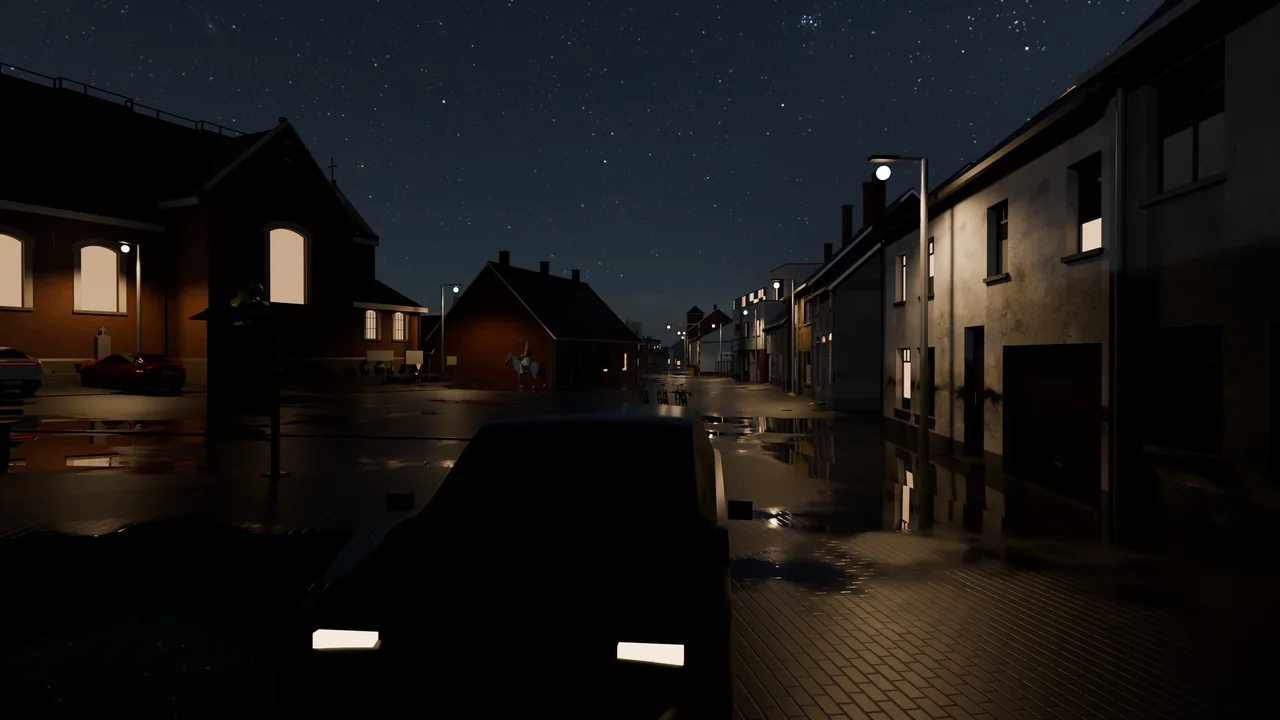
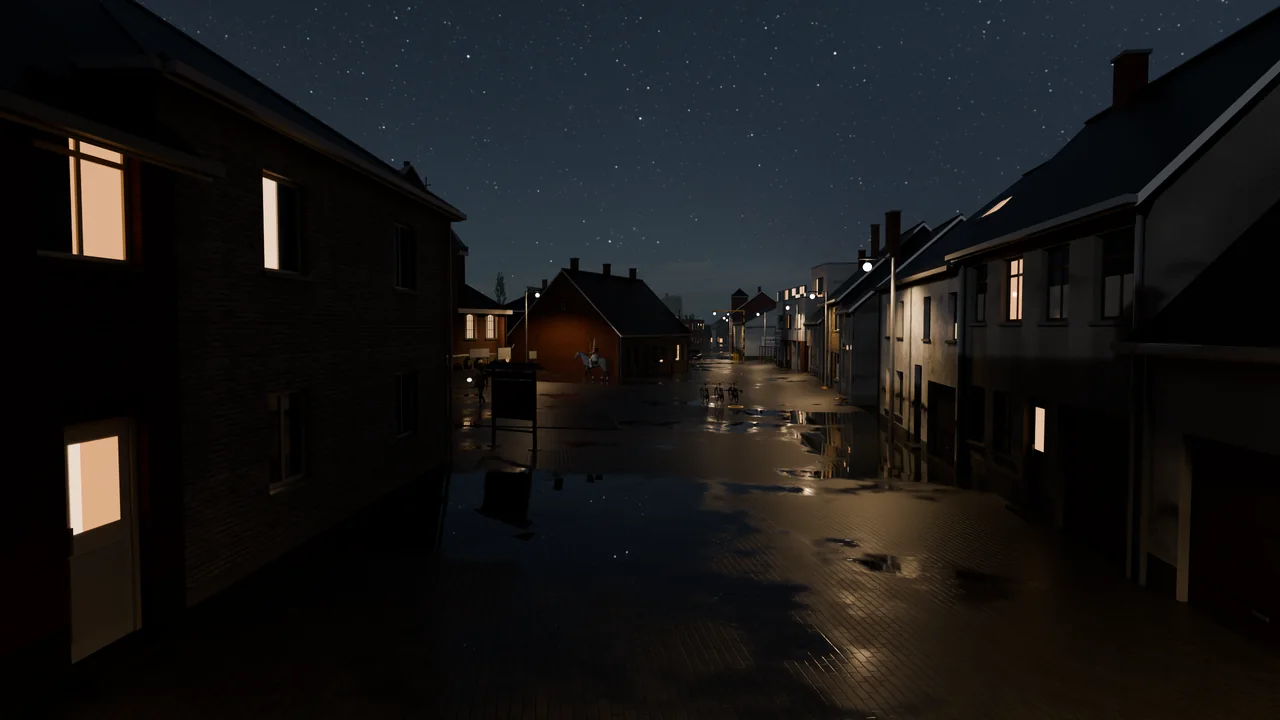
Start screen: the wet night street without a car in front, and the Sparrenhof at dusk seen from the road
The merger's review: in street-night a passing car filled the bottom of the picture, and in
sparrenhof-dusk the top half was dark crowns and the café hard to make out.

street-night: the camera moves a few metres back and up the street; the wet paving, the puddles
mirroring the lamps and the lit windows stay, the street's end right of the middle. A new view
extra, `render.clear` (export_scene.js), leaves out anything car-sized within that many metres of
the camera, as the traffic drove into this spot in two exports.

sparrenhof-dusk: the camera stands on the road looking in at the lit café, its steel stairs and
roof platform and a tree hut with a lantern, the trees framing the left side only, in an earlier
dusk (a brighter sky for fill). The subject sits right of the start panel.

Made with export_view.mjs, render_still.py at 2560 wide and 256 samples, and encode_still.py, as
before. The decisions row describes the new framing.

Claude-Session: https://claude.ai/code/session_01SZHxLo9gvS2EbfpbHaJ3PJ

diff --git a/tools/still/export_scene.js b/tools/still/export_scene.js
@@ -216,6 +216,24 @@
       m.needsUpdate = true;
     }
   });
+  // `render.clear` (views.json): nothing car-sized within that many metres of the camera. The traffic drives where it
+  // likes, and a car passing just in front of a street-level camera filled the bottom of the picture.
+  if (view?.render?.clear) {
+    const eye = scene.position.clone().fromArray(view.position);
+    const ball = new (scene.position.constructor)();
+    scene.traverse((o) => {
+      if (!o.isMesh || !o.visible || o.isInstancedMesh) return;
+      o.geometry.computeBoundingSphere?.();
+      const s = o.geometry.boundingSphere;
+      if (!s) return;
+      ball.copy(s.center).applyMatrix4(o.matrixWorld);
+      const r = s.radius * o.matrixWorld.getMaxScaleOnAxis();
+      if (r < 3.5 && ball.distanceTo(eye) < view.render.clear) {
+        o.visible = false;
+        unseen.push(o);
+      }
+    });
+  }
   for (const o of scene.children) if (o.visible && !o.isLight && !o.isCamera) objects.push(o);
   // The start screen's camera (main.ts startCamera, wide screens), or the view's.
   const fov = view?.fov ?? 72;

diff --git a/DECISIONS.md b/DECISIONS.md
@@ -340,3 +340,4 @@ What we chose, and why. Newest at the bottom.
 | 2026-11-08 | **The Together tab's room list no longer names who opened each room** (security review: `GET /api/rooms` gave every session, guests too, the names of the accounts that opened rooms) | The list shows the place, the players and the wave; a player's own room says "Your room". Who opened a room is sent only to the admin (the game's admin and the panel's `GET /api/admin/rooms`); inside a room its players still hear whose it is, as before. **Security** (information disclosure): the names of accounts playing elsewhere are no longer handed to anyone who joins as a guest. The privacy policy says players see the open rooms, and in a room who opened it. |
 | 2026-11-08 | **The boards take the admin's runs and totals under each of its reserved names, "yoshi" too** (Yoshi: "show yoshi (admin) scores"; security review: only ADMIN_USERNAME reached the boards, while the admin plays under other names) | `store.boardNames` is every name in RESERVED (server/auth.mjs: ADMIN_USERNAME and "yoshi"), which no guest can take and no account can be made with, so only the admin password logs in under them. The leaderboard, the best Zombies runs and the clean-ups at start (`statsForAccountsOnly`, `zombieBestForAccountsOnly`) keep those names besides the accounts'. The game still adds to the boards only for role `admin` and `player` (server/game.mjs `onBoard`), never a guest. A free name the admin logs in under that is not reserved stays off the boards, as before. |
 | 2026-11-08 | **The start pictures rendered again for this round, and four new ones: FC Smetlede at dusk, a wet street at night, the church square, the tree huts at dusk** (Yoshi: "also update the stills on the start screen after this round") | All eight older views are rendered again from today's world, and four new views join them in `tools/still/views.json`. **football**: the youth training under the floodlights at dusk, four spots at the masts' heads. **street-night**: the street off the church square at night just after the rain, its paving under puddles that mirror the lamps and the lit windows (`render.wet`, `render.puddles`). **square**: the church square from above by day, with the village board and the church. **sparrenhof-dusk**: the café lit at dusk behind the west tree hut, with a lantern in the hut. The new views put their subject right of the middle, clear of the start panel on the left. Twelve slides now, day and dusk or night taking turns; on a phone the dots are a little narrower so the bar fits. **Trees:** the stills now export the game on High, so the leaf-card trees go in as they are. Their painted atlas is embedded as an alpha-tested texture and cut out in Cycles. Every card is lit by the crown's shape on both sides, as `world/leaves.ts` does, and a crown lets some light through to the leaves under it. **A fix on the way:** Blender 5's glTF importer already multiplies a colour per vertex into the base colour, and `render_still.py` did it a second time, so every vertex colour came out squared. That is why the old crowns needed a strong brightening. **Villagers** are posed in their vertex shader, which glTF can't carry. The export now builds each one as a plain mesh in its current pose, coloured from its palette, so the stills have people in them. **Privacy:** the export blocks the page's `/api/` requests, so the town board shows its empty list and no player's name can end up in a picture. No private home's inside is in any view. |
+| 2026-11-08 | **The start pictures rendered again for this round, and four new ones: FC Smetlede at dusk, a wet street at night, the church square, the tree huts at dusk** (Yoshi: "also update the stills on the start screen after this round") | All eight older views are rendered again from today's world, and four new views join them in `tools/still/views.json`. **football**: the youth training under the floodlights at dusk, four spots at the masts' heads. **street-night**: the street off the church square at night just after the rain, its paving under puddles that mirror the lamps and the lit windows (`render.wet`, `render.puddles`). **square**: the church square from above by day, with the village board and the church. **sparrenhof-dusk**: the lit café seen from the road at early dusk, with its steel stairs, its roof platform and a tree hut with a lantern; the trees frame it on one side. In the street views, `render.clear` leaves out anything car-sized within a few metres of the camera, so passing traffic can't fill the foreground. The new views put their subject right of the middle, clear of the start panel on the left. Twelve slides now, day and dusk or night taking turns; on a phone the dots are a little narrower so the bar fits. **Trees:** the stills now export the game on High, so the leaf-card trees go in as they are. Their painted atlas is embedded as an alpha-tested texture and cut out in Cycles. Every card is lit by the crown's shape on both sides, as `world/leaves.ts` does, and a crown lets some light through to the leaves under it. **A fix on the way:** Blender 5's glTF importer already multiplies a colour per vertex into the base colour, and `render_still.py` did it a second time, so every vertex colour came out squared. That is why the old crowns needed a strong brightening. **Villagers** are posed in their vertex shader, which glTF can't carry. The export now builds each one as a plain mesh in its current pose, coloured from its palette, so the stills have people in them. **Privacy:** the export blocks the page's `/api/` requests, so the town board shows its empty list and no player's name can end up in a picture. No private home's inside is in any view. |
